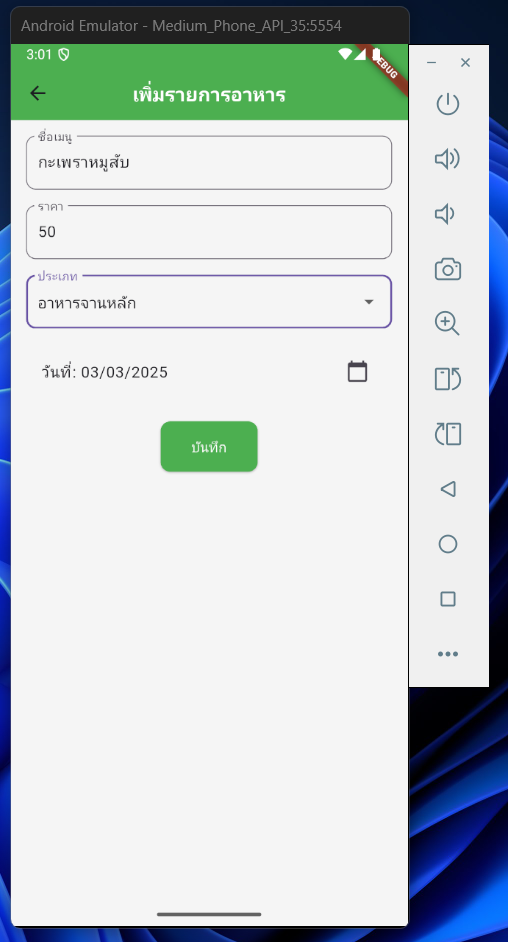
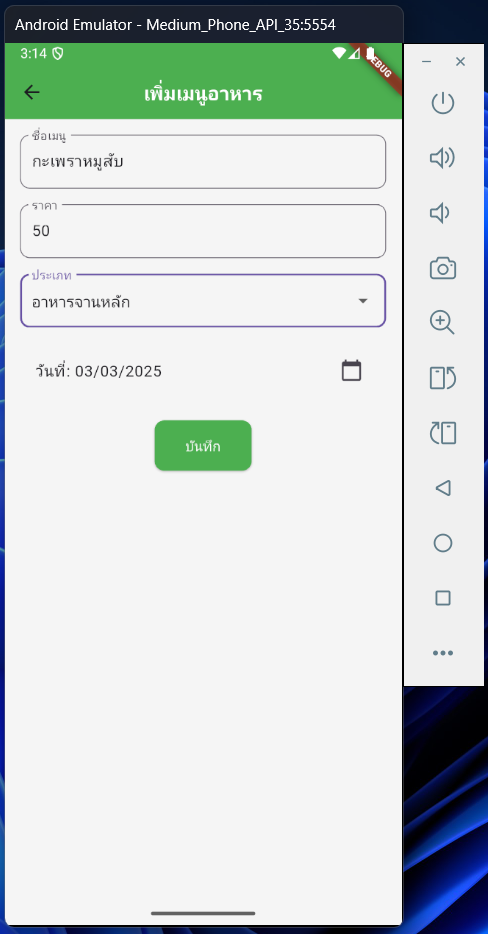
first commit

diff --git a/lib/add_page.dart b/lib/add_page.dart
@@ -34,7 +34,7 @@ class _AddPageState extends State<AddPage> {
   Widget build(BuildContext context) {
     return Scaffold(
       appBar: AppBar(
-        title: Text('เพิ่มรายการอาหาร'),
+        title: Text('เพิ่มเมนูอาหาร'),
       ),
       body: Padding(
         padding: const EdgeInsets.all(16.0),
